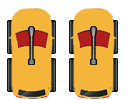
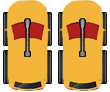
avance en seleccion de personajes

diff --git a/Encroachment/menu.cpp b/Encroachment/menu.cpp
@@ -8,8 +8,14 @@ Menu::Menu(QWidget *parent) :
 {
     ui->setupUi(this);
 
+    level = 0;
+    character = 0;
+
     ui->splitter->setGeometry(482,150,316,420);
     ui->start->setGeometry(482,400,316,140);
+
+    ui->characteres->setGeometry(400,400,450,70);
+    ui->characteres->setVisible(false);
 
     ui->level1->setIcon(QIcon(":/images/level1 b.jpg"));
     ui->level1->setIconSize(QSize(350,400));
@@ -79,6 +85,7 @@ void Menu::on_play_clicked()
     ui->back->setVisible(true);
     ui->levels->setVisible(true);
     ui->play_2->setVisible(true);
+    ui->characteres->setVisible(true);
     Invisible();
 }
 
@@ -100,16 +107,23 @@ void Menu::on_back_clicked()
 {
     ui->splitter->setVisible(false);
     ui->levels->setVisible(false);
+    ui->characteres->setVisible(false);
     ui->play_2->setVisible(false);
     ui->back->setVisible(false);
     Visible();
     level = 0;
+    character = 0;
     ui->level1->setIcon(QIcon(":/images/level1 b.jpg"));
     ui->level1->setIconSize(QSize(350,400));
     ui->level2->setIcon(QIcon(":/images/level2 b.jpg"));
     ui->level2->setIconSize(QSize(350,400));
     ui->level3->setIcon(QIcon(":/images/level3 b.jpg"));
     ui->level3->setIconSize(QSize(350,400));
+}
+
+short Menu::getCharacter() const
+{
+    return character;
 }
 
 QString Menu::getUsername() const
@@ -165,6 +179,10 @@ void Menu::on_level3_clicked()
 
 void Menu::on_play_2_clicked()
 {
+    if(character == 0){
+        QMessageBox::critical(this,"Error","Seleccione un personaje.");
+        return;
+    }
     switch (level) {
     case 1:{
         close();
@@ -210,4 +228,19 @@ void Menu::on_start_clicked()
      close();
      login = new Login();
      login->show();
+}
+
+void Menu::on_character1_clicked()
+{
+    character = 1;
+}
+
+void Menu::on_character2_clicked()
+{
+   character = 2;
+}
+
+void Menu::on_character3_clicked()
+{
+   character = 3;
 }

diff --git a/Encroachment/character.cpp b/Encroachment/character.cpp
@@ -7,11 +7,17 @@ extern Menu *menu;
 Character::Character(bool boss,QObject *parent):QObject(parent)
 {
     if(boss == true){
-        pixmap = new QPixmap(":/images/character 1.png");
+        if(menu->getCharacter() == 1)
+            pixmap = new QPixmap(":/images/character 1.png");
+        else if(menu->getCharacter() == 2)
+            pixmap = new QPixmap(":/images/character 2.png");
+        else if(menu->getCharacter() == 3)
+            pixmap = new QPixmap(":/images/character 3.png");
 
         col = 0;
         w = 142.75;
         h = 67;
+        last = 571;
 
         min = 70;
         max = 1240;
@@ -37,7 +43,8 @@ Character::Character(bool boss,QObject *parent):QObject(parent)
 
         col=0;
         w = 55;
-        h = 140;
+        h = 92;
+        last = 110;
 
         health = 10;
         speed = 7.5;
@@ -45,9 +52,9 @@ Character::Character(bool boss,QObject *parent):QObject(parent)
         min = 30;
         max = 1090;
 
-        //    timer = new QTimer();
-        //    connect(timer,SIGNAL(timeout()),this,SLOT(actualize()));
-        //timer->start(1000);
+        timer = new QTimer();
+        connect(timer,SIGNAL(timeout()),this,SLOT(actualize()));
+        timer->start(100);
 
         timerM = new QTimer();
         connect(timerM,SIGNAL(timeout()),this,SLOT(Move()));
@@ -102,7 +109,7 @@ void Character::continueMove()
 void Character::actualize()
 {
     col += w;
-    if(col >= 571){
+    if(col >= last){
         col = 0;
     }
     this->update(-w/2,-h/2,w,h);

diff --git a/Encroachment/menu.h b/Encroachment/menu.h
@@ -32,6 +32,8 @@ public:
     QString getUsername() const;
     void setUsername(const QString &value);
 
+    short getCharacter() const;
+
 private slots:
     void on_play_clicked();
 
@@ -51,6 +53,12 @@ private slots:
 
     void on_start_clicked();
 
+    void on_character1_clicked();
+
+    void on_character2_clicked();
+
+    void on_character3_clicked();
+
 public slots:
     void on_back_clicked();
 
@@ -58,7 +66,7 @@ private:
     Ui::Menu *ui;
     QGraphicsScene *scene;
     Login *login;
-    short level;    
+    short level, character;
     QString username;
 //    Level1 *level1;
 

diff --git a/Encroachment/login.cpp b/Encroachment/login.cpp
@@ -154,9 +154,7 @@ void Login::on_next_clicked()
 
 
 }
-
 //manejo de archivos
-
 void Login::adduser(QString user, QString password)
 {
 string text;
@@ -196,18 +194,8 @@ bool Login::existUser(QString user)
 
    if(user.toStdString() == user_) return true;
    return false;
-//   int num=user_.length();
-//   num=num+exist;
-
-
-
-//   char x=texto[num];
-//   char y=texto[exist-1];
-//   if (x!=':')exist=-1;
-//   if (y!='\n')exist=-1;
-
-//   return exist;
 }
+
 bool Login::CheckPassword(QString user, QString password){
 
     qDebug() << "Comprobar contraseña";

diff --git a/Encroachment/boss2.cpp b/Encroachment/boss2.cpp
@@ -114,10 +114,12 @@ void Boss2::Move2()
     if(x() <= 50){
         speed = 7;
         setPos(x()+speed,y()+30);
+        setPixmap(QPixmap(":/images/last2.png").scaled(160,100));
     }
     else if(x() >= 1180){
         speed = -7;
         setPos(x()+speed,y());
+        setPixmap(QPixmap(":/images/last.png").scaled(160,100));
     }
     else setPos(x()+speed,y());
 }

diff --git a/Encroachment/character.h b/Encroachment/character.h
@@ -42,7 +42,7 @@ public:
 private:
     double health, speed;
     double w,h,col;
-    int min, max;
+    int min, max, last;
     QPixmap *pixmap;
     QTimer *timer;
     QTimer *timerM;
